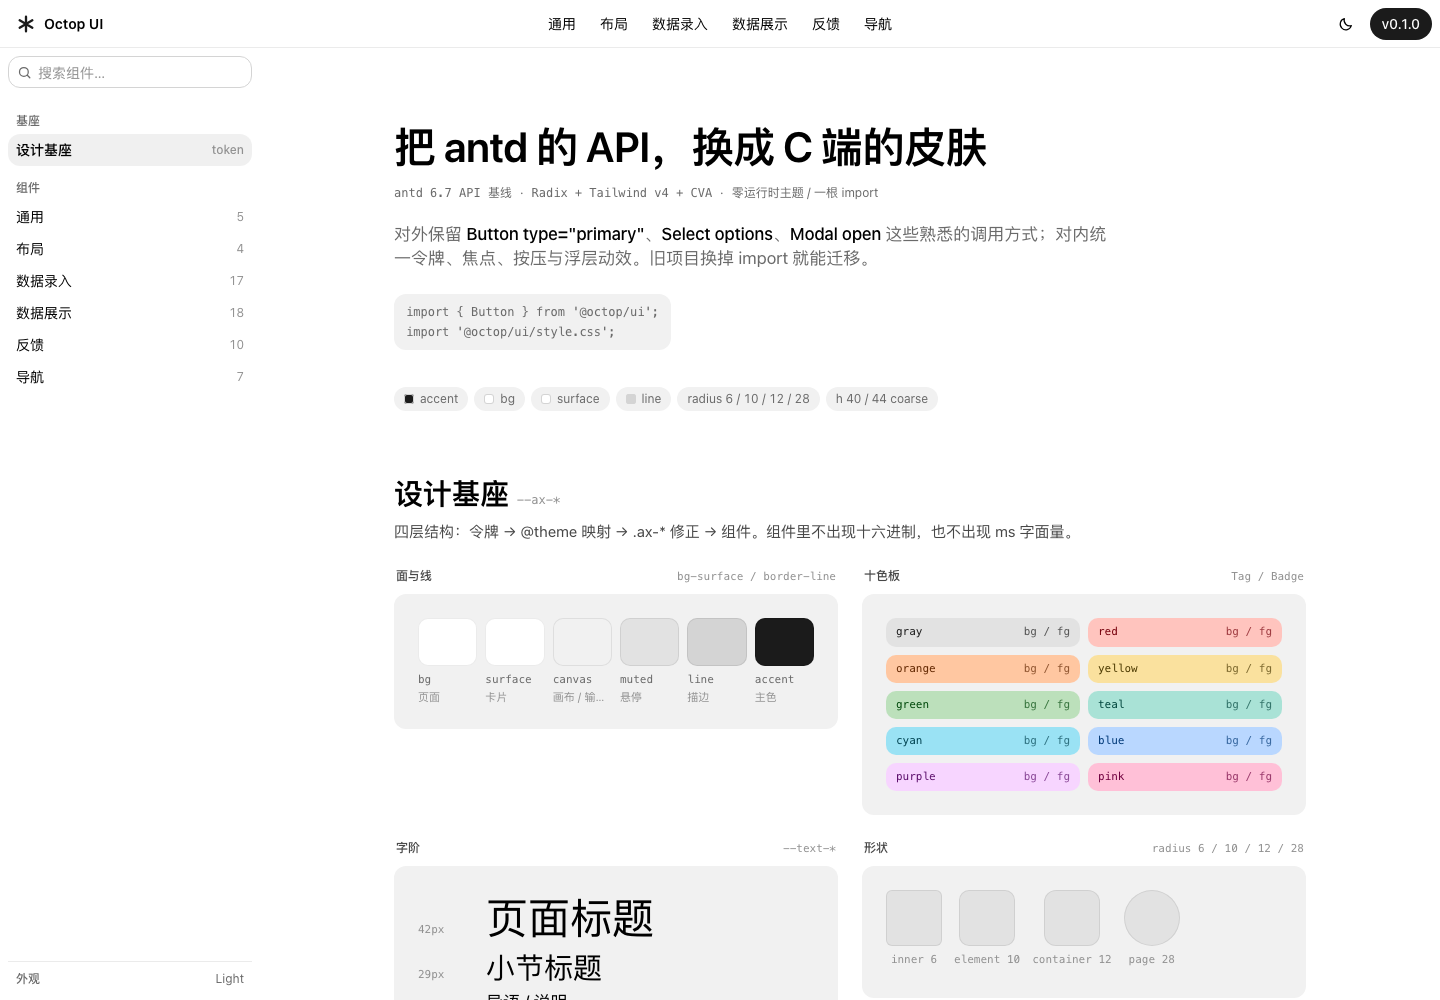
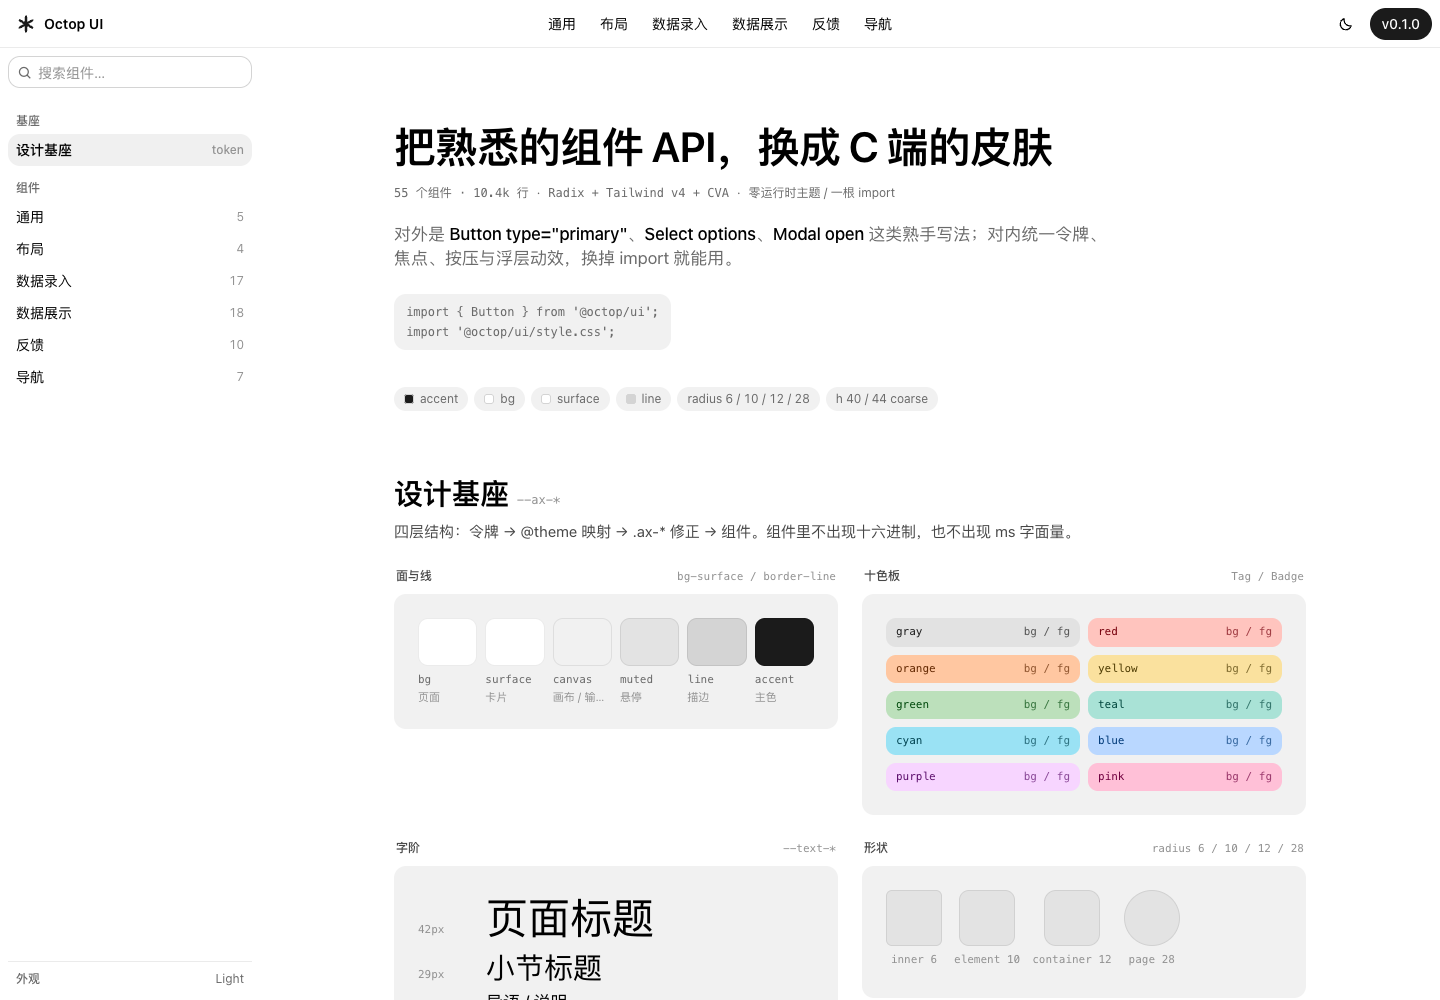
chore: 文档与注释改为自有表述
- README：intro 与 API 章节重写，对比表表头与各行为中性描述，新增「组件约定」
- 展厅 demo：首屏标题与副标题、各分区 Hint 去掉第三方字样与版本号，截图 docs/demo-light.png 重新生成
- src 组件注释只保留行为说明
- index.html 标题与 package.json description 同步改写

Changed region(s): [[0.2812, 0.124, 0.7812, 0.279]]

diff --git a/demo/App.tsx b/demo/App.tsx
@@ -166,20 +166,20 @@ export default function App() {
             <div className="mx-auto max-w-[912px]">
               <header className="mb-16">
                 <h1 className="m-0 mb-3 text-4xl font-semibold tracking-[-0.01em] text-fg max-md:text-3xl">
-                  把 antd 的 API，换成 C 端的皮肤
+                  把熟悉的组件 API，换成 C 端的皮肤
                 </h1>
                 <p className="mb-5 flex flex-wrap items-center gap-2 text-xs text-fg-tertiary">
-                  <code className="font-mono text-xs">antd 6.7 API 基线</code>
+                  <code className="font-mono text-xs">55 个组件 · 10.4k 行</code>
                   <span>·</span>
                   <code className="font-mono text-xs">Radix + Tailwind v4 + CVA</code>
                   <span>·</span>
                   <span>零运行时主题 / 一根 import</span>
                 </p>
                 <p className="mb-6 max-w-[720px] text-lg text-fg-tertiary">
-                  对外保留 <strong className="font-medium text-fg">Button type="primary"</strong>、
+                  对外是 <strong className="font-medium text-fg">Button type="primary"</strong>、
                   <strong className="font-medium text-fg">Select options</strong>、
                   <strong className="font-medium text-fg">Modal open</strong>{' '}
-                  这些熟悉的调用方式；对内统一令牌、焦点、按压与浮层动效。旧项目换掉 import 就能迁移。
+                  这类熟手写法；对内统一令牌、焦点、按压与浮层动效，换掉 import 就能用。
                 </p>
                 <div className="mb-4 inline-block max-w-full overflow-x-auto rounded-container bg-canvas px-3 py-2 font-mono text-xs leading-[1.67] whitespace-pre text-fg-tertiary">
                   {`import { Button } from '@octop/ui';

diff --git a/demo/sections/general.tsx b/demo/sections/general.tsx
@@ -163,8 +163,7 @@ export function General() {
           <Text delete>删除线</Text> 与 <Text keyboard>⌘K</Text>。
         </Paragraph>
         <Paragraph type="secondary" className="!mb-0" ellipsis={{ rows: 2 }}>
-          两行截断：Ant Design 的
-          ellipsis 在 v6 支持行数配置，这里用 line-clamp 实现，不测量 DOM，也没有 ResizeObserver 抖动。
+          两行截断：ellipsis 收行数配置，用 line-clamp 实现，不测量 DOM，也没有 ResizeObserver 抖动。
           再补一点文字让它真的到第三行，才能看出截断效果。
         </Paragraph>
       </Demo>
@@ -183,14 +182,14 @@ export function General() {
             禁用链接
           </Link>
           <Text type="secondary">
-            antd 的链接默认蓝色，这里刻意改成「文字 + 下划线」：C 端页面里蓝色太容易被当成主按钮。
+            链接不涂品牌蓝，刻意用「文字 + 下划线」：C 端页面里蓝色太容易被当成主按钮。
           </Text>
         </Stack>
       </Demo>
 
       <Demo label="分割线" code="Divider titlePlacement" span="full" dir="column">
-        <Divider titlePlacement="left">左对齐（v6 新名）</Divider>
-        <Divider orientation="center">居中（v5 旧名，也收）</Divider>
+        <Divider titlePlacement="left">左对齐（titlePlacement）</Divider>
+        <Divider orientation="center">居中（orientation 也收）</Divider>
         <Divider dashed>虚线</Divider>
         <Row>
           <Text>文字</Text>

diff --git a/src/components/button.tsx b/src/components/button.tsx
@@ -71,7 +71,7 @@ const button = cva(
 
 export interface ButtonProps
   extends Omit<React.ButtonHTMLAttributes<HTMLButtonElement>, 'type' | 'color'> {
-  /** antd 的按钮类型。dashed 会降级为次级填充（Astryx 没有虚线形态） */
+  /** 按钮类型。dashed 会降级为次级填充（Astryx 没有虚线形态） */
   type?: ButtonType;
   size?: ButtonSize;
   shape?: ButtonShape;
@@ -84,7 +84,7 @@ export interface ButtonProps
   block?: boolean;
   href?: string;
   target?: string;
-  /** 原生 button 的 type，antd 同名 API */
+  /** 原生 button 的 type */
   htmlType?: 'button' | 'submit' | 'reset';
   children?: React.ReactNode;
 }
@@ -176,7 +176,7 @@ export const Button = forwardRef<HTMLButtonElement, ButtonProps>(function Button
 });
 
 /**
- * antd 的 `Button.Group`。视觉上等价于 Space.Compact：相邻按钮共用一条边，
+ * `Button.Group`。视觉上等价于 Space.Compact：相邻按钮共用一条边，
  * 只有两端保留圆角。真正的合并逻辑在 Space.Compact 的 CSS 里。
  */
 export const ButtonGroup = forwardRef<HTMLDivElement, React.HTMLAttributes<HTMLDivElement>>(

diff --git a/demo/sections/data-display.tsx b/demo/sections/data-display.tsx
@@ -144,7 +144,7 @@ export function DataDisplay() {
         />
         <Hint>
           排序三态、筛选弹层、行选择与展开都是自研的；<code>onChange(pagination, filters, sorter)</code>
-          与 antd 同签名。
+          一次给出三份状态。
         </Hint>
       </Demo>
 
@@ -204,7 +204,7 @@ export function DataDisplay() {
         <List
           bordered
           dataSource={[
-            { title: '把 antd 迁到 Octop', desc: '换 import + 引一次 CSS', avatar: '林' },
+            { title: '换掉 import 就能用', desc: '调用方式不用改', avatar: '林' },
             { title: '补齐 55 个组件', desc: '表单、表格、日期都自研', avatar: '周' },
             { title: '按 C 端调控件高度', desc: '粗指针设备自动到 44', avatar: '陈' },
           ]}

diff --git a/demo/sections/data-entry.tsx b/demo/sections/data-entry.tsx
@@ -229,7 +229,7 @@ export function DataEntry() {
         </Row>
         <RangePicker value={range} onChange={(v) => setRange(v)} className="!w-full" />
         <Hint>
-          <code>onChange(date, dateString)</code> 与 antd 一致：第一个参数是 dayjs 对象，第二个是格式化字符串。
+          <code>onChange(date, dateString)</code> 两个参数：第一个是 dayjs 对象，第二个是格式化字符串。
         </Hint>
       </Demo>
 
@@ -408,7 +408,7 @@ export function DataEntry() {
           showSearch
         />
         <Hint>
-          <code>onChange(nextKeys, direction, moveKeys)</code> 三个参数与 antd 一致。
+          <code>onChange(nextKeys, direction, moveKeys)</code> 三个参数：新目标列、移动方向、本次移动的键。
         </Hint>
       </Demo>
 

diff --git a/src/components/space.tsx b/src/components/space.tsx
@@ -26,7 +26,7 @@ export interface SpaceProps extends React.HTMLAttributes<HTMLDivElement> {
   justify?: 'start' | 'end' | 'center' | 'space-between' | 'space-around';
   wrap?: boolean;
   split?: React.ReactNode;
-  /** 子项是否撑满（antd 的 fill） */
+  /** 子项是否撑满 */
   fill?: boolean;
 }
 
@@ -100,7 +100,7 @@ const SpaceImpl = forwardRef<HTMLDivElement, SpaceProps>(function Space(
 });
 
 /**
- * antd 的 `Space.Compact`：把相邻控件拼成一个整体 —— 只保留两端圆角，
+ * `Space.Compact`：把相邻控件拼成一个整体 —— 只保留两端圆角，
  * 中间共用一条 1px 描边。用自己的 CSS 变量实现，不与具体组件耦合。
  */
 const Compact = forwardRef<HTMLDivElement, React.HTMLAttributes<HTMLDivElement>>(

diff --git a/src/components/tag.tsx b/src/components/tag.tsx
@@ -14,7 +14,7 @@ export type PresetColor =
   | 'purple'
   | 'pink';
 
-/** antd 的历史色名映射到 Astryx 的十色板（Astryx 只有 10 个色相） */
+/** 常用色名映射到 Astryx 的十色板（Astryx 只有 10 个色相） */
 const COLOR_ALIAS: Record<string, PresetColor> = {
   magenta: 'pink',
   volcano: 'red',
@@ -52,7 +52,7 @@ export interface TagProps extends React.HTMLAttributes<HTMLSpanElement> {
   onClose?: (e: React.MouseEvent<HTMLElement>) => void;
   bordered?: boolean;
   icon?: React.ReactNode;
-  /** 实心（antd 的 filled）：语义色用纯色底 */
+  /** 实心（filled）：语义色用纯色底 */
   filled?: boolean;
 }
 

diff --git a/demo/sections/layout.tsx b/demo/sections/layout.tsx
@@ -25,7 +25,7 @@ export function LayoutSection() {
       id="layout"
       title="布局"
       api="Layout / Row Col / Splitter / Card"
-      desc="栅格保留 antd 的 24 栏与响应式断点；布局容器只负责分区，不携带主题，嵌套时不会重复描边。"
+      desc="栅格是 24 栏与响应式断点；布局容器只负责分区，不携带主题，嵌套时不会重复描边。"
     >
       <Demo label="Layout" code="Header / Sider / Content" span="full" dir="block">
         <Layout className="w-full overflow-hidden rounded-container border border-line">

diff --git a/src/components/tabs.tsx b/src/components/tabs.tsx
@@ -180,7 +180,7 @@ export function Tabs({
 
       <div className={cn('min-w-0 flex-1', vertical ? 'ps-4' : 'pt-3')}>
         {items.map((item) => {
-          // antd 默认保留未激活面板的 DOM；destroyOnHidden 时才真正卸载。
+          // 默认保留未激活面板的 DOM；destroyOnHidden 时才真正卸载。
           // forceMount 之后 Radix 不再自己加 hidden，得我们补上，否则未激活面板会堆着显示。
           const keepMounted =
             !(destroyOnHidden || destroyInactiveTabPane) || Boolean(item.forceRender);

diff --git a/src/lib/hooks.ts b/src/lib/hooks.ts
@@ -6,7 +6,7 @@ const useIsoLayoutEffect = typeof window === 'undefined' ? useEffect : useLayout
  * 受控 / 非受控双模。
  * - 传了 value 就是受控：只能由 onChange 回去改，内部不落状态；
  * - 传了 defaultValue 就是非受控：内部状态，onChange 同时更新；
- * - 两者都传：受控优先，但 defaultValue 仍然作为首帧兜底（antd 的行为）。
+ * - 两者都传：受控优先，但 defaultValue 仍然作为首帧兜底。
  */
 export function useControllableState<T>(options: {
   value?: T;

diff --git a/src/styles/index.css b/src/styles/index.css
@@ -1,7 +1,7 @@
 /* =============================================================================
    @octop/ui — 样式基座
    -----------------------------------------------------------------------------
-   三层结构（与 antd-themed 参考实现同构）：
+   三层结构：
      1) 令牌：:root / .dark 上的 --ax-*，数值取自 Astryx（theme-neutral 0.7.x），
         按 C 端场景做了三处调校：控件高度从 28/32/36 抬到 32/40/48、
         正文从 14 抬到 15、触屏指针下再自动 +4px。

diff --git a/src/components/form.tsx b/src/components/form.tsx
@@ -389,7 +389,7 @@ export interface FormItemProps {
   help?: ReactNode;
   validateStatus?: 'success' | 'warning' | 'error' | 'validating';
   validateTrigger?: string | string[];
-  /** 受控属性名，默认 value；Checkbox / Switch 用 checked（antd 同名 API） */
+  /** 受控属性名，默认 value；Checkbox / Switch 用 checked */
   valuePropName?: string;
   getValueFromEvent?: (...args: unknown[]) => unknown;
   normalize?: (value: unknown, prevValue: unknown, allValues: Record<string, unknown>) => unknown;
